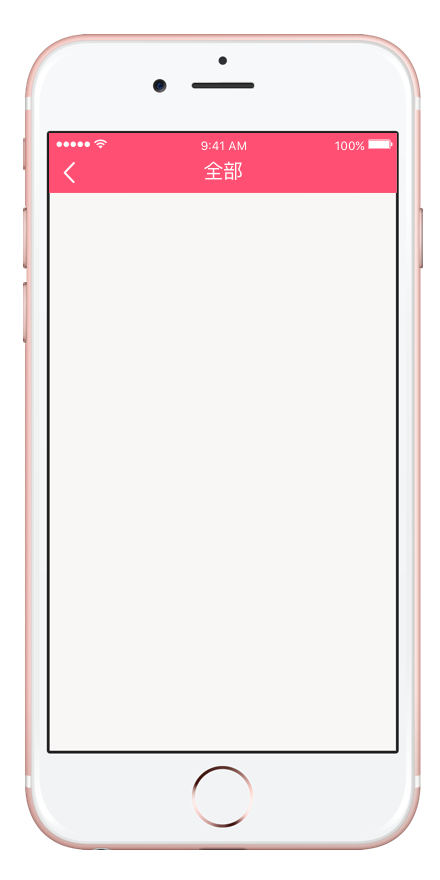
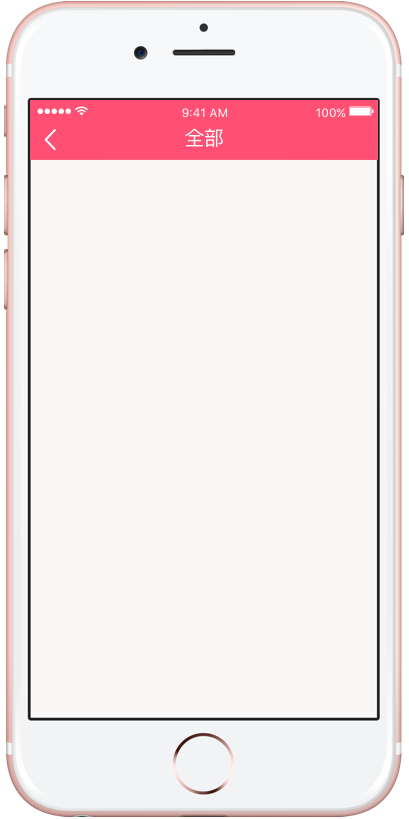
首页banner增加文章跳转

Changed region(s): [[0.0, 0.0, 0.9976, 1.0]]

diff --git a/src/components/Preview.vue b/src/components/Preview.vue
@@ -12,8 +12,8 @@
 
 <style scoped>
     .iphone-box {
-        height: 805px;
-        width: 410px;
+        height: 750px;
+        width: 370px;
         margin: 0 auto;
         background-size: contain;
         background-repeat: no-repeat;
@@ -22,17 +22,17 @@
 
     .webview {
         position: absolute;
-        top: 177px;
-        left: 45px;
-        width: 317px;
-        height: 510px;
+        top: 145px;
+        left: 27px;
+        width: 315px;
+        height: 504px;
     }
 
     .navigation{
         position: absolute;
-        top: 141px;
-        width: 317px;
-        left: 45px;
+        top: 110px;
+        width: 315px;
+        left: 27px;
         height: 35px;
         background: #ff5073;
         text-align: center;

diff --git a/src/view/Main/ArticleEdit.vue b/src/view/Main/ArticleEdit.vue
@@ -115,7 +115,7 @@
                 <froala class="editor-box" v-if="config" :tag="'textarea'" :config="config" v-model="model"></froala>
 
                 <footer class="footer">
-                    <el-button type="success" @click="previewDialogVisible = true">预览</el-button>
+                    <el-button type="success" :disabled="!aid" @click="previewDialogVisible = true">预览</el-button>
                     <el-button type="primary" @click="submit" :disabled="!form.name">保存</el-button>
                     <el-button type="danger" @click="remove" v-show="aid">删除</el-button>
                     <el-button type="info" @click="goback">返回</el-button>
